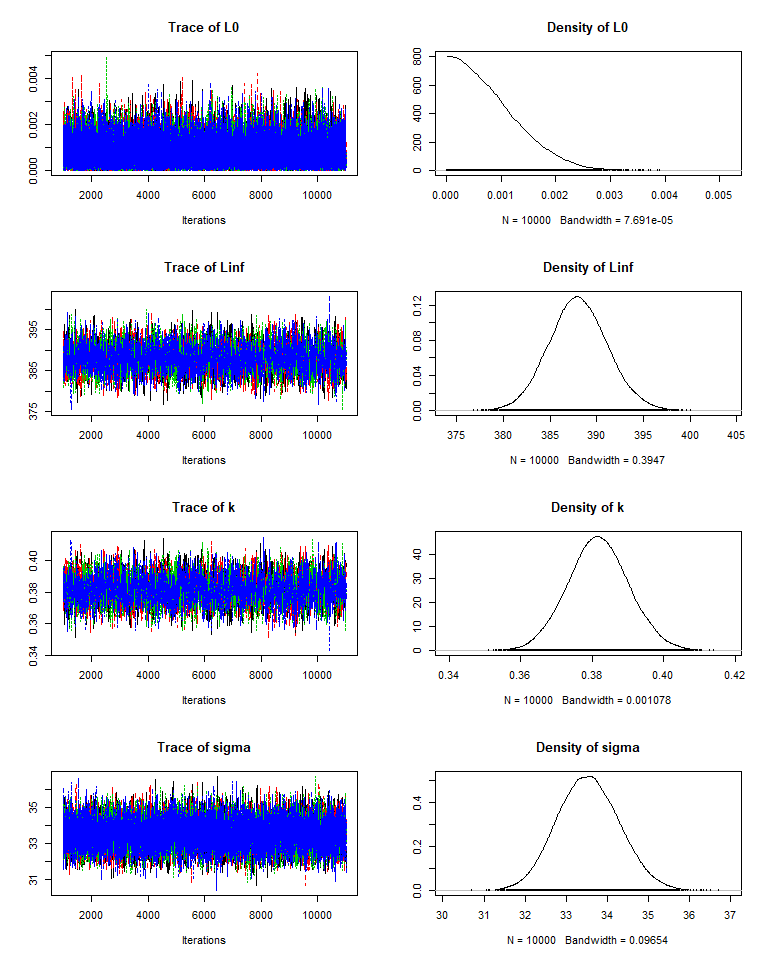
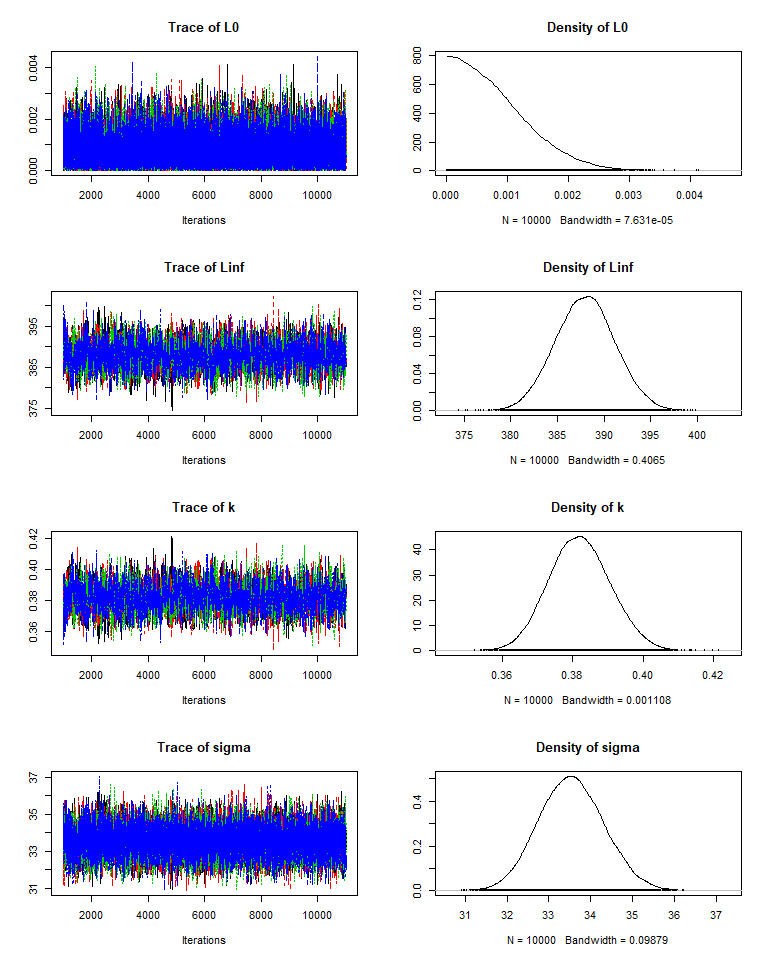
README updates

diff --git a/README.md b/README.md
@@ -19,10 +19,10 @@ You can install the released version of BayesGrowth from [Github](https://github
 devtools::install_github("jonathansmart/BayesGrowth")
 ```
 
-Example
--------
+Usage
+-----
 
-This is a basic example which shows you how to solve a common problem:
+The main `BayesGrowth` function is `Estimate_MCMC_Growth` which is the wrapper function around an rjags model. It requires a data input that includes Age and Length, a model needs to be specified (several options are available) and the priors must be specified. Priors include the max size with an error, length-at-birth with an error, an upper value for *k* and *σ*. These latter two parameters have no informative priors so just need senscible upper bounds. Many fish species (including this example) have a size at birth of zero. Therefore, this can be used along with a very small error to indicate that this is a certain value. The `L0.se` argument cannot be zero, although the model is specified to truncate it to zero and keep growth positive.
 
 ``` r
 library(BayesGrowth)
@@ -32,12 +32,11 @@ data("example_data")
 max_size <- 440
 max_size_se <- 4.4
 birth_size <- 0
-birth_size_se <- 0.001 # an se cannot be zero so
+birth_size_se <- 0.001 # an se cannot be zero
 
 # Use the function to estimate the JAGS model
 results <- Estimate_MCMC_Growth(example_data, Model = "VB" ,
                      iter = 10000,
-                     thin = 1,
                      Linf = 440,
                      Linf.se = 4.4,
                      L0 = 0,
@@ -56,13 +55,13 @@ head(results)
 #> End = 1007 
 #> Thinning interval = 1 
 #>                L0     Linf         k    sigma
-#> [1,] 0.0005620452 392.0610 0.3723220 33.94318
-#> [2,] 0.0001369667 389.9172 0.3719000 34.37843
-#> [3,] 0.0024029083 391.4290 0.3718815 33.94910
-#> [4,] 0.0007986814 390.5713 0.3740651 34.59104
-#> [5,] 0.0003338447 392.0651 0.3714542 34.41875
-#> [6,] 0.0014637191 391.7149 0.3684055 34.31933
-#> [7,] 0.0003701148 392.6997 0.3682633 32.82473
+#> [1,] 0.0006652715 390.9521 0.3717089 34.23016
+#> [2,] 0.0002653097 391.8202 0.3741431 34.12191
+#> [3,] 0.0008244993 391.3167 0.3752415 33.85880
+#> [4,] 0.0002247448 390.2134 0.3762566 33.34104
+#> [5,] 0.0009638235 390.3530 0.3751728 32.35000
+#> [6,] 0.0004318568 389.5652 0.3738423 32.36783
+#> [7,] 0.0000784418 389.7947 0.3724705 32.89823
 #> 
 #> [[2]]
 #> Markov Chain Monte Carlo (MCMC) output:
@@ -70,13 +69,13 @@ head(results)
 #> End = 1007 
 #> Thinning interval = 1 
 #>                L0     Linf         k    sigma
-#> [1,] 1.437831e-03 391.1706 0.3686934 33.68340
-#> [2,] 5.876792e-04 391.6915 0.3714747 34.09151
-#> [3,] 7.586228e-04 392.5083 0.3685232 34.56320
-#> [4,] 1.450904e-05 389.9673 0.3697185 32.49913
-#> [5,] 9.742589e-04 391.8381 0.3727185 34.91729
-#> [6,] 6.155311e-04 392.1416 0.3698109 34.80104
-#> [7,] 1.829126e-03 394.7320 0.3689887 34.33722
+#> [1,] 0.0003172034 383.8720 0.3879421 33.79979
+#> [2,] 0.0003126417 389.0027 0.3790549 33.81706
+#> [3,] 0.0003552461 387.1678 0.3852045 32.89205
+#> [4,] 0.0010176001 386.8890 0.3853119 33.15583
+#> [5,] 0.0023008715 387.9941 0.3819780 32.42553
+#> [6,] 0.0005101382 388.5263 0.3830371 33.42809
+#> [7,] 0.0001943342 387.2390 0.3861711 34.75159
 #> 
 #> [[3]]
 #> Markov Chain Monte Carlo (MCMC) output:
@@ -84,13 +83,13 @@ head(results)
 #> End = 1007 
 #> Thinning interval = 1 
 #>                L0     Linf         k    sigma
-#> [1,] 3.278961e-04 384.0970 0.3948504 33.13292
-#> [2,] 1.368021e-03 383.1382 0.3948640 32.31931
-#> [3,] 1.792267e-04 382.7616 0.3968951 32.05192
-#> [4,] 1.236768e-03 382.3860 0.3968147 32.80638
-#> [5,] 3.561401e-05 382.7382 0.3933473 32.01858
-#> [6,] 1.241996e-03 383.8103 0.3935411 32.53760
-#> [7,] 1.299801e-05 380.5846 0.3941646 32.11056
+#> [1,] 0.0003541779 388.3304 0.3739821 33.64270
+#> [2,] 0.0017186522 389.0593 0.3693600 33.48490
+#> [3,] 0.0014169990 391.0227 0.3716809 33.82420
+#> [4,] 0.0005503210 391.0124 0.3766435 33.44774
+#> [5,] 0.0016794807 388.7599 0.3800068 33.19777
+#> [6,] 0.0007007575 389.1321 0.3823088 33.41521
+#> [7,] 0.0007860959 386.6312 0.3818066 33.26740
 #> 
 #> [[4]]
 #> Markov Chain Monte Carlo (MCMC) output:
@@ -98,19 +97,19 @@ head(results)
 #> End = 1007 
 #> Thinning interval = 1 
 #>                L0     Linf         k    sigma
-#> [1,] 0.0008450929 385.2614 0.3947052 33.65721
-#> [2,] 0.0007748658 382.6058 0.3948355 33.64765
-#> [3,] 0.0007460382 384.5935 0.3940808 33.63621
-#> [4,] 0.0015213388 383.0320 0.3921592 32.67531
-#> [5,] 0.0019646179 385.3097 0.3902396 33.14265
-#> [6,] 0.0001802971 384.8634 0.3911948 33.54316
-#> [7,] 0.0002729824 387.5196 0.3891440 32.95159
+#> [1,] 0.0003068650 383.7703 0.3970474 33.50448
+#> [2,] 0.0006980269 384.1806 0.3917652 32.61900
+#> [3,] 0.0006432910 382.1401 0.3915466 32.32490
+#> [4,] 0.0004167164 386.0858 0.3919686 34.80228
+#> [5,] 0.0002497434 383.3461 0.3948591 34.43699
+#> [6,] 0.0008830061 383.6027 0.3943774 34.14556
+#> [7,] 0.0007979783 384.3037 0.3958615 34.08158
 #> 
 #> attr(,"class")
 #> [1] "mcmc.list"
 ```
 
-Therefore, all of the diagnostics of the rjags library can be used.
+Therefore, all of the diagnostics from the rjags library can be used.
 
 ``` r
 summary(results)
@@ -123,25 +122,25 @@ summary(results)
 #> 1. Empirical mean and standard deviation for each variable,
 #>    plus standard error of the mean:
 #> 
-#>            Mean       SD  Naive SE Time-series SE
-#> L0    7.965e-04 0.000604 3.020e-06      3.057e-06
-#> Linf  3.880e+02 3.141438 1.571e-02      6.146e-02
-#> k     3.818e-01 0.008558 4.279e-05      1.701e-04
-#> sigma 3.354e+01 0.758228 3.791e-03      6.948e-03
+#>            Mean        SD  Naive SE Time-series SE
+#> L0    7.979e-04 0.0005993 2.997e-06      2.985e-06
+#> Linf  3.880e+02 3.1929815 1.596e-02      6.364e-02
+#> k     3.820e-01 0.0087000 4.350e-05      1.765e-04
+#> sigma 3.354e+01 0.7759623 3.880e-03      7.147e-03
 #> 
 #> 2. Quantiles for each variable:
 #> 
 #>            2.5%       25%       50%       75%     97.5%
-#> L0    3.113e-05 3.145e-04 6.735e-04 1.148e-03   0.00223
-#> Linf  3.820e+02 3.860e+02 3.880e+02 3.901e+02 394.39122
-#> k     3.652e-01 3.761e-01 3.817e-01 3.875e-01   0.39887
-#> sigma 3.210e+01 3.302e+01 3.353e+01 3.405e+01  35.05989
+#> L0    3.056e-05 3.194e-04 6.814e-04 1.149e-03 2.231e-03
+#> Linf  3.818e+02 3.858e+02 3.880e+02 3.901e+02 3.943e+02
+#> k     3.655e-01 3.760e-01 3.818e-01 3.878e-01 3.994e-01
+#> sigma 3.206e+01 3.301e+01 3.353e+01 3.406e+01 3.510e+01
 plot(results,density = T, smooth = F)
 ```
 
 <img src="man/figures/README-Diagnostics-1.png" width="100%" />
 
-Additional `BayesGrowth` functions are available that help the user manipulate the objects. The `Calculate_MCMC_growth_curve` function will provide confidence intervals around the growth curve based on MCMC percentiles. This is essentially a wrapper around the `tidybayes::mean_qi()` which means it can be passed straight into a ggplot with the `tidybayes::geom_line_ribbon`.
+Additional `BayesGrowth` functions are available that help the user manipulate the objects. The `Calculate_MCMC_growth_curve` function will provide confidence intervals around the growth curve based on MCMC percentiles. This is essentially a wrapper around the `tidybayes::mean_qi()` function which means it can be passed straight into a ggplot with the `tidybayes::geom_line_ribbon` function.
 
 ``` r
 
